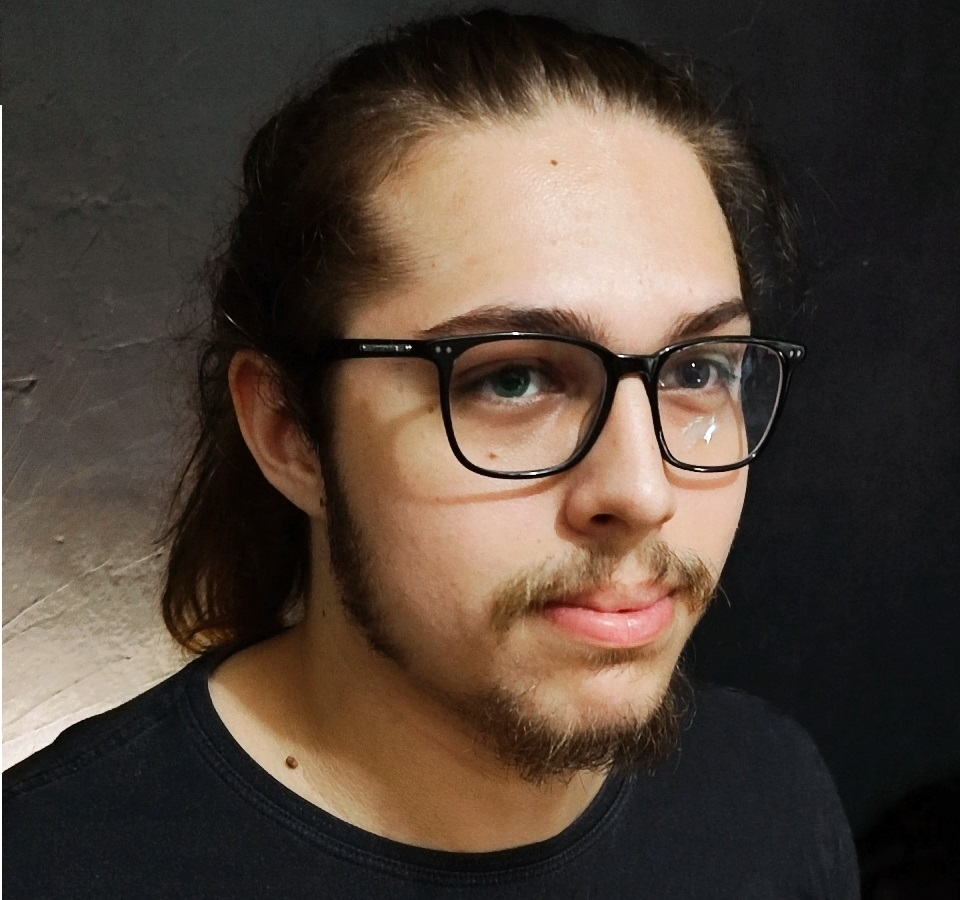
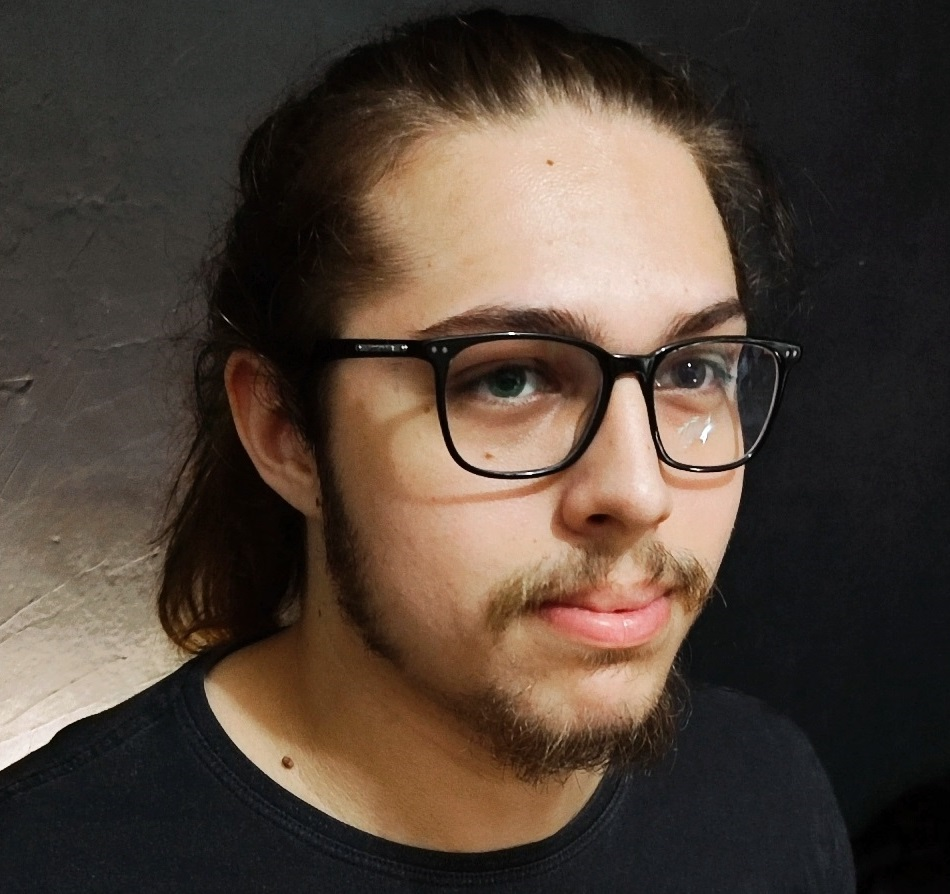
add: figma on tech and face photo on about

diff --git a/src/components/Home/Technologies.jsx b/src/components/Home/Technologies.jsx
@@ -3,6 +3,7 @@ import { styled } from "styled-components"
 import { ContentLimiter } from "../Common/ContentLimit"
 import {
   CssIcon,
+  FigmaIcon,
   GitIcon2,
   GithubIcon,
   HtmlIcon,
@@ -24,13 +25,14 @@ const listTech = [
   { Icon: CssIcon, color: "#264de4", label: "CSS" },
   { Icon: JsIcon, color: "#f0db4f", label: "JS" },
   { Icon: NodeIcon, color: "#68a063", label: "NODE" },
+  { Icon: RouterIcon, color: "", label: "REACT ROUTER" },
+  { Icon: ReduxIcon, color: "#764abc", label: "REACT REDUX" },
+  { Icon: StyledIcon, color: "#ffbd43", label: "STYLED COMPONENTS" },
   { Icon: GitIcon2, color: "#f34f29", label: "GIT" },
   { Icon: GithubIcon, color: "#424242", label: "GITHUB" },
   { Icon: VscodeIcon, color: "#0078d7", label: "VSCODE" },
-  { Icon: StyledIcon, color: "#ffbd43", label: "STYLED COMPONENTS" },
-  { Icon: RouterIcon, color: "", label: "REACT ROUTER" },
-  { Icon: ReduxIcon, color: "#764abc", label: "REACT REDUX" },
   { Icon: ViteIcon, color: "", label: "VITE" },
+  { Icon: FigmaIcon, color: "", label: "FIGMA" },
 ]
 
 export const Technologies = () => {

diff --git a/src/components/Common/Icons.jsx b/src/components/Common/Icons.jsx
@@ -2,6 +2,7 @@ import { AiOutlineGithub, AiOutlineLinkedin } from "react-icons/ai"
 import { SiStyledcomponents, SiRedux } from "react-icons/si"
 import vite from "../../assets/icons/vite-js-logo.svg"
 import router from "../../assets/icons/react-router-mark-color.svg"
+import figma from "../../assets/icons/figma_logo.svg"
 import { BiLogoVisualStudio } from "react-icons/bi"
 import {
   FaReact,
@@ -56,6 +57,19 @@ export const Git = () => (
   </NoStyleLink>
 )
 
+export const FigmaIcon = () => {
+  const { isColorized } = useSelector((state) => state.color)
+
+  return (
+    <ImgIcon
+      transition={{ duration: durationValue, delay: delayValue }}
+      animate={{
+        filter: isColorized ? "grayscale(0)" : "grayscale(1)",
+      }}
+      src={figma}
+    />
+  )
+}
 export const ViteIcon = () => {
   const { isColorized } = useSelector((state) => state.color)
 

diff --git a/src/components/Home/AboutHome.jsx b/src/components/Home/AboutHome.jsx
@@ -1,5 +1,6 @@
 import { styled } from "styled-components"
 import { ContentLimiter } from "../Common/ContentLimit"
+import facePhoto from "../../assets/images/1669344622565quadrada.jpg"
 
 export const AboutHome = () => {
   return (
@@ -17,7 +18,7 @@ export const AboutHome = () => {
           meu portfólio onde mostro o que venho desenvolvendo nos últimos anos.
         </Description>
       </AboutTextWrapper>
-      <AboutImage />
+      <AboutImage src={facePhoto} />
     </AboutContainer>
   )
 }
